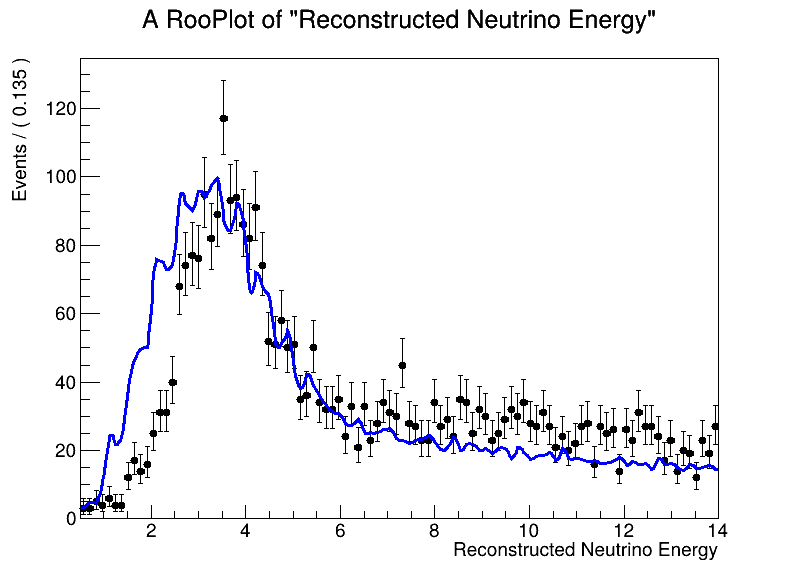
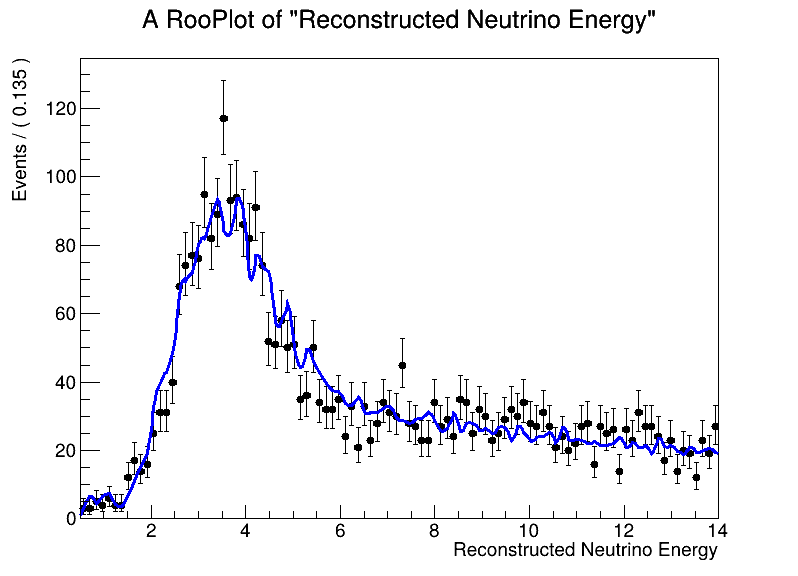
Changes to Exercise 12

Changed region(s): [[0.1805, 0.3125, 0.9023, 0.8125], [0.1504, 0.5938, 0.2105, 0.7812], [0.0902, 0.75, 0.1805, 0.875]]

diff --git a/HandsOn2/Exercise12/minos.cpp b/HandsOn2/Exercise12/minos.cpp
@@ -34,7 +34,7 @@ void minos()
     RooRealVar dm2("dm2", "Delta m^2", 0.0024, 0.0001, 0.01);
 
     // Create the oscillation probably
-    RooFormulaVar prob_osc("prob_osc", "Oscillation Probability", "1 - @0*sin(1.267*@1/@2)^2", RooArgSet(mixing, dm2, energy));
+    RooFormulaVar prob_osc("prob_osc", "Oscillation Probability", "1 - @0*sin(1.267*730*@1/@2)^2", RooArgSet(mixing, dm2, energy));
 
     // Create final PDF of the energy distribution of oscillated neutrino
     RooGenericPdf model{"model", "model", "@0*@1", RooArgSet(prob_osc, func_noosc)};
